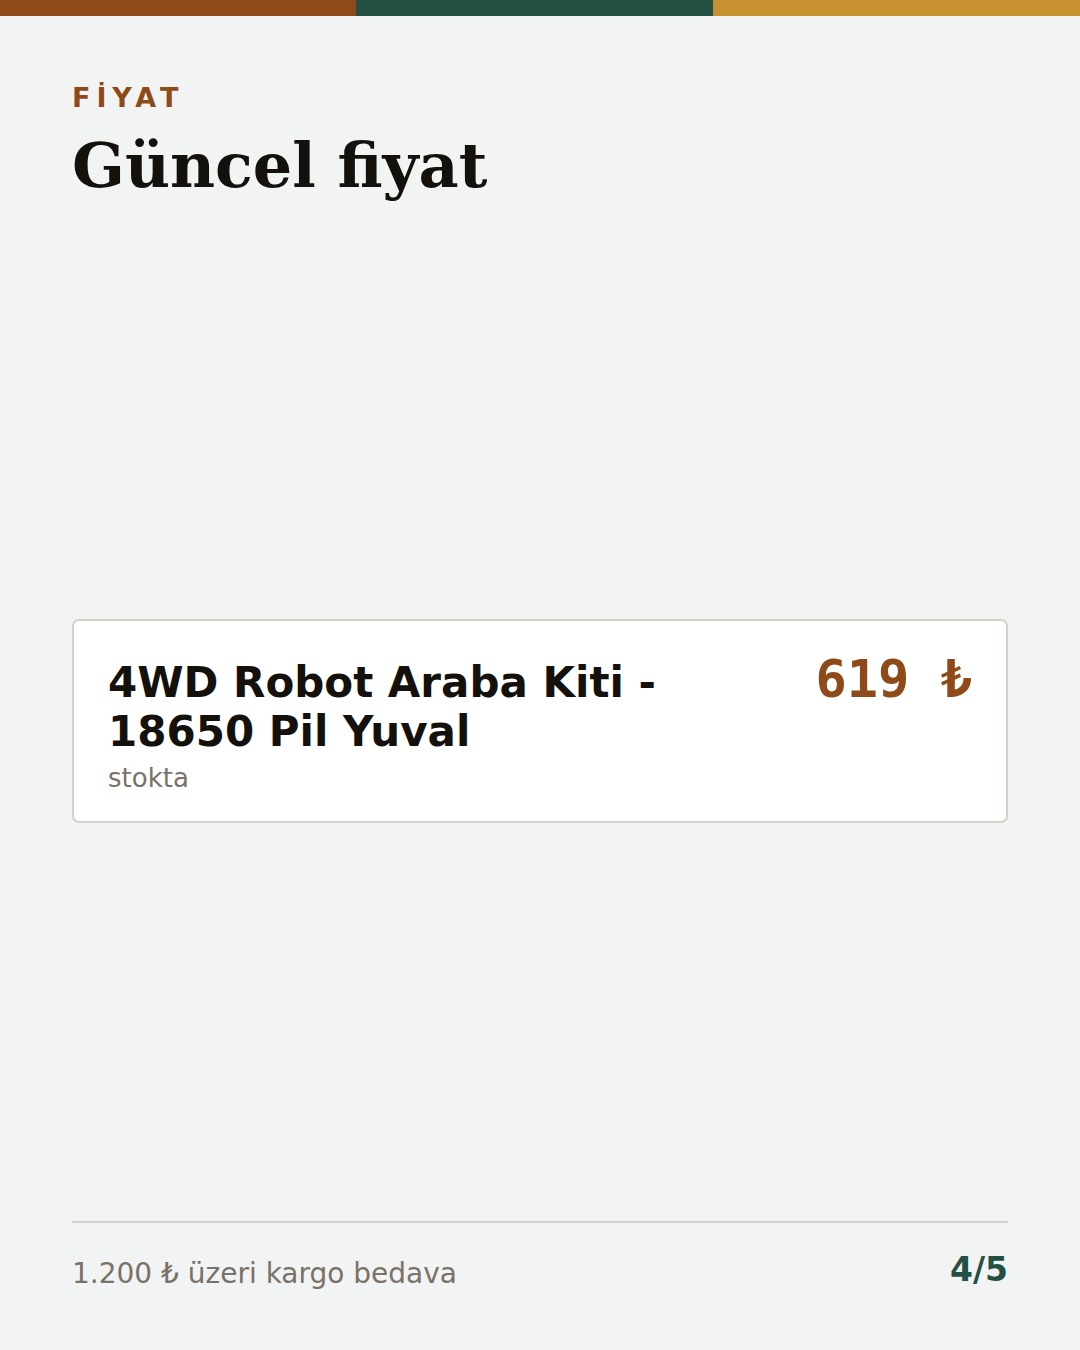
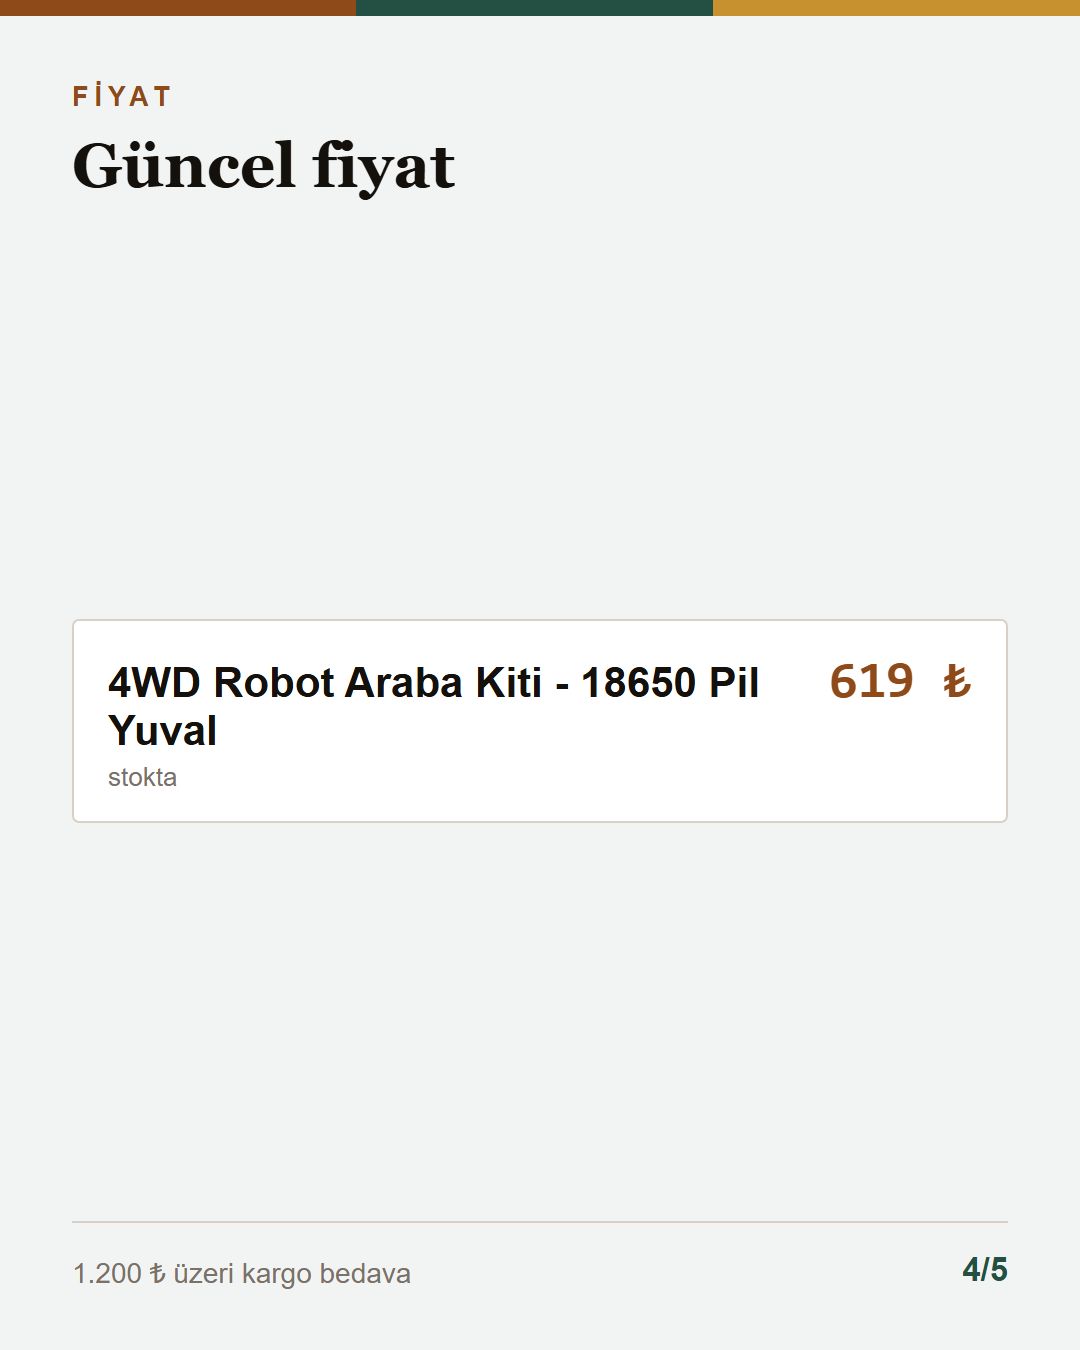
Yerel gorev betikleri D:\Masaustu yoluna; kanca fiyat slaytlari (sasi 404/411, 4WD sasi 619)

diff --git a/tools/siparis_bugun.py b/tools/siparis_bugun.py
@@ -11,4 +11,4 @@ for env in (pathlib.Path(r"C:\Users\serdar\Desktop\atolyesocialbotmasaustu\.env"
                 k, v = l.split("=", 1); os.environ.setdefault(k.strip(), v.strip().strip('"').strip("'"))
 sys.path[:0] = [str(KOK / "src"), str(KOK / "src" / "marketplaces")]
 from stok import siparis  # noqa: E402
-siparis.liste(list(siparis.TOPLAYICI), str(pathlib.Path.home() / "Desktop" / "SIPARIS-BUGUN.xlsx"), sadece_bugun=True)
+siparis.liste(list(siparis.TOPLAYICI), str((pathlib.Path(r"D:\Masaustu") if pathlib.Path(r"D:\Masaustu").exists() else pathlib.Path.home() / "Desktop") / "SIPARIS-BUGUN.xlsx"), sadece_bugun=True)
